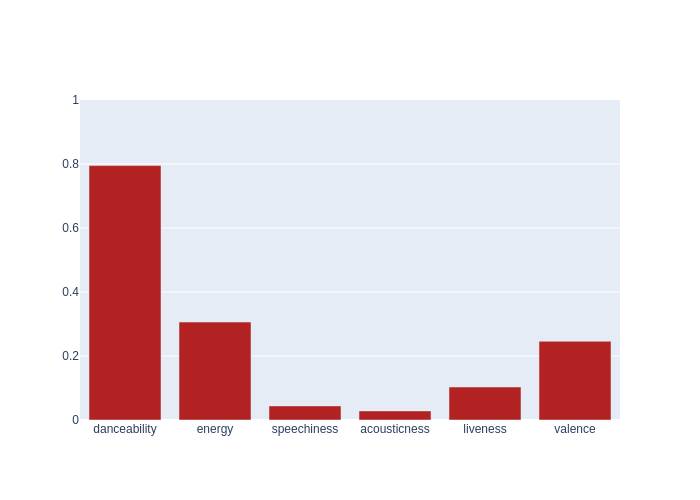
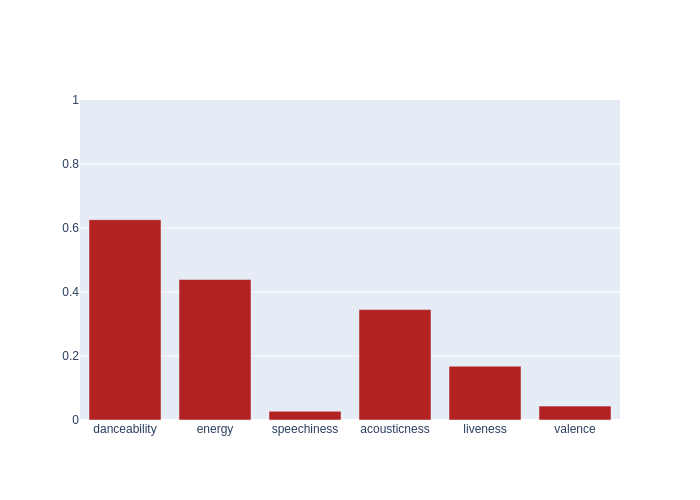
Automated README update

diff --git a/README.md b/README.md
@@ -4,7 +4,7 @@ Automated music metrics for fun, updated hourly.
 
 ## Spotify
 
-- currently listening to **Black Atlass - Close Your Eyes**
+- currently listening to **Always Never - Millions**
 
 - **3099** liked songs
 - **33** playlists
